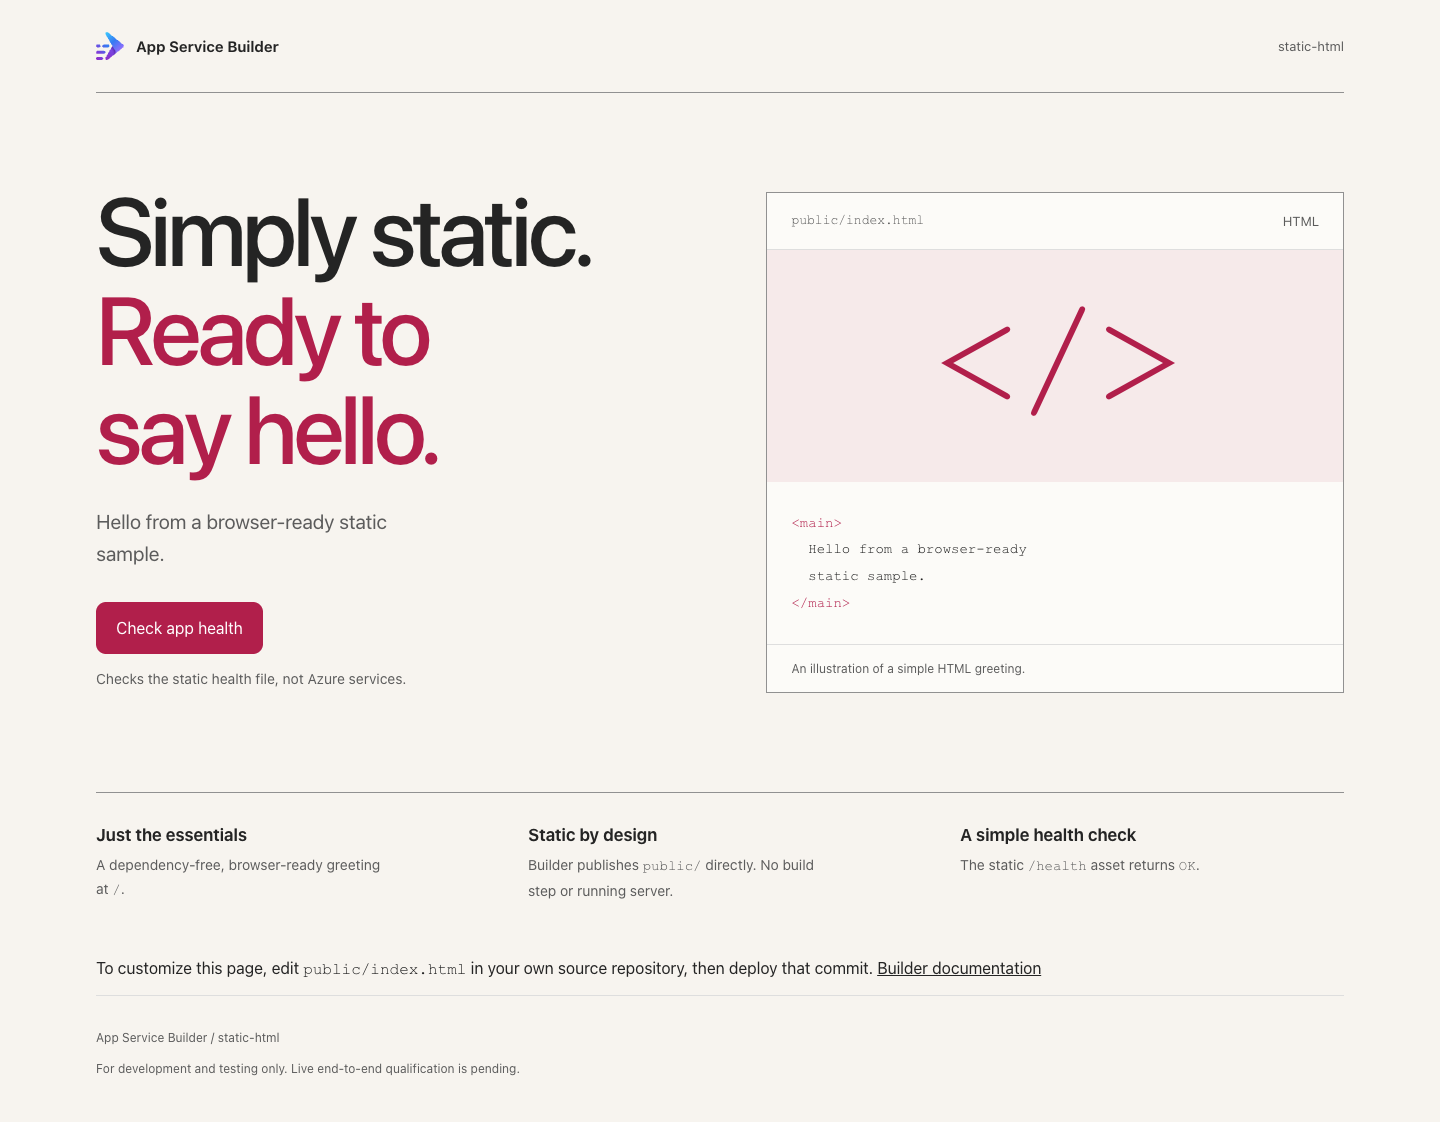
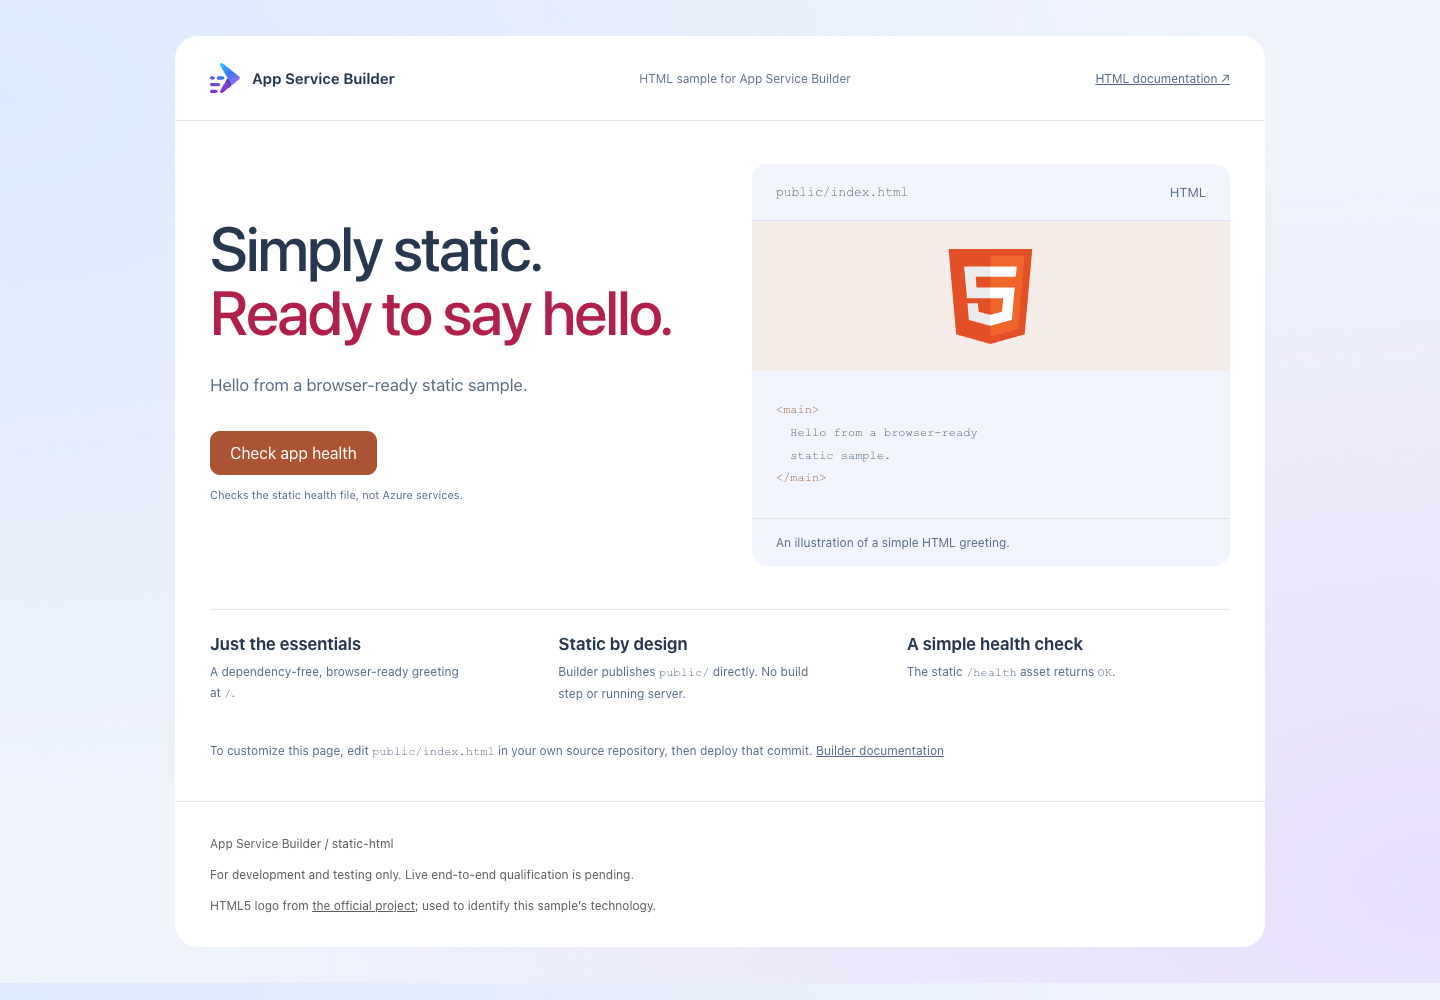
Refresh the language-specific Builder sample UI

diff --git a/public/index.html b/public/index.html
@@ -189,15 +189,16 @@
           to { clip-path: inset(0); }
         }
       }
-    </style>
+
+.shell{max-width:1090px;width:calc(100% - 60px)}body{background:radial-gradient(ellipse at 0 10%,#dceaff,transparent 60%),radial-gradient(ellipse at 100% 90%,#e8e0fa,transparent 60%),#eff3fc;color:#26374f}.masthead{margin-top:36px;background:white;padding:27px 35px;border-radius:23px 23px 0 0;border-bottom:1px solid #e2e8f1}main.shell{padding:0 35px 25px;background:white}.hero{padding-block:43px;gap:40px}.hero h1{font-size:62px;letter-spacing:-.03em}.intro{color:#586c85;font-size:17px}.source{background:#f3f5fe;border:0;border-radius:15px;overflow:hidden}.source-heading,.source-caption{border-color:#dae2f2;color:#596c87}.html-mark{min-height:150px;background:#f5ebe7;color:#b75830}.language-logo{width:95px;height:auto}.code{font-size:12px;color:#49647f}.syntax{color:#936445}.action{background:#aa5434;color:white;border:0;border-radius:10px;min-height:44px;padding:13px 20px}.action:hover{background:#864129}.details{gap:25px;padding:24px 0;border-color:#e2e8f1}.detail p{color:#586c85;font-size:12px}footer.shell{padding:20px 35px;background:#fff;border-radius:0 0 23px 23px;margin-bottom:36px;border-color:#e2e8f1}.brand-logo{width:30px;height:30px}.edition{color:#61718b;font-size:12px}main>p{color:#586c85;font-size:12px;line-height:1.8}#health-status{color:#586c85;font-size:11px}.language-docs{color:#536582;font-size:12px}
+html[data-theme=dark] body{background:#171e30;color:#ecf1ff}html[data-theme=dark] .masthead,html[data-theme=dark] main.shell,html[data-theme=dark] footer.shell{background:#242e43}html[data-theme=dark] .intro,html[data-theme=dark] .detail p,html[data-theme=dark] main>p,html[data-theme=dark] #health-status,html[data-theme=dark] .edition,html[data-theme=dark] .language-docs{color:#bdcbe2}
+@media(max-width:700px){.shell{width:calc(100% - 30px)}.masthead{margin-top:22px;padding:23px 21px;flex-wrap:wrap;gap:15px}main.shell{padding:0 21px 24px}.hero{padding-block:31px;gap:27px}.hero h1{font-size:48px}.html-mark{min-height:120px}.details{gap:22px}footer.shell{padding:19px 21px}.brand{max-width:none}}
+</style>
   </head>
   <body>
     <!--
-      THESIS: An HTML greeting as a typographic specimen, not a generic card grid.
-      OWN-WORLD: Warm paper, charcoal type, rose ink, and a flat source-code sheet.
-      STORY: Read the original greeting, understand the static sample, open /health.
-      FIRST VIEWPORT: Oversized headline left; HTML specimen right; one health link.
-      FORM: Brief-directed editorial composition; existing routes and content retained.
+      THESIS: A language-specific hello-world specimen in the approved soft modern Builder family.
+      FORM: Existing sample functionality and honest health/customization behavior retained.
     -->
     <header class="masthead shell">
       <div class="brand"><svg class="brand-logo" aria-hidden="true" focusable="false" width="18" height="18" viewBox="0 0 18 18" fill="none" xmlns="http://www.w3.org/2000/svg">
@@ -250,7 +251,7 @@
 </clipPath>
 </defs>
 </svg>App Service Builder</div>
-      <span class="edition">static-html</span>
+      <span class="edition">HTML sample for App Service Builder</span><a class="language-docs" href="https://html.spec.whatwg.org/multipage/">HTML documentation ↗</a>
     </header>
     <main class="shell">
       <section class="hero" aria-labelledby="greeting">
@@ -262,7 +263,14 @@
         </div>
         <figure class="source">
           <div class="source-heading"><code>public/index.html</code><span>HTML</span></div>
-          <div class="html-mark" aria-hidden="true">&lt;/&gt;</div>
+          <div class="html-mark"><svg class="language-logo" role="img" aria-label="HTML5" xmlns="http://www.w3.org/2000/svg" viewBox="0 0 512 512">
+  <title>HTML5 Logo Badge</title>
+  <path fill="#E34F26" d="M71,460 L30,0 481,0 440,460 255,512"/>
+  <path fill="#EF652A" d="M256,472 L405,431 440,37 256,37"/>
+  <path fill="#EBEBEB" d="M256,208 L181,208 176,150 256,150 256,94 255,94 114,94 115,109 129,265 256,265zM256,355 L255,355 192,338 188,293 158,293 132,293 139,382 255,414 256,414z"/>
+  <path fill="#FFF" d="M255,208 L255,265 325,265 318,338 255,355 255,414 371,382 372,372 385,223 387,208 371,208zM255,94 L255,129 255,150 255,150 392,150 392,150 392,150 393,138 396,109 397,94z"/>
+</svg>
+</div>
           <pre class="code"><code><span class="syntax">&lt;main&gt;</span>
   Hello from a browser-ready
   static sample.
@@ -289,7 +297,7 @@
     <footer class="shell">
       <p>App Service Builder / static-html</p>
       <p>For development and testing only. Live end-to-end qualification is pending.</p>
-    </footer>
+    <p>HTML5 logo from <a href="https://www.w3.org/html/logo/">the official project</a>; used to identify this sample’s technology.</p></footer>
     <script>
       const button = document.querySelector('[data-health-check]');
       const status = document.querySelector('#health-status');

diff --git a/README.md b/README.md
@@ -6,7 +6,7 @@ running server in the deployment. `serve.mjs` is only a local development helper
 
 ## Preview
 
-![Static HTML root page with a rose-accented greeting, HTML specimen, and in-page health check](docs/images/sample.png)
+![HTML sample with official technology and Builder identity, inline health and source guidance](docs/images/sample.png)
 
 Real local rendering in Microsoft Edge, not evidence of an Azure deployment.
 
@@ -163,3 +163,7 @@ The local helper, tests, and README are outside the deployed `public/` directory
 * [MIT license](LICENSE.md)
 
 The product mark uses the supplied App Service Builder asset in `assets/AppServiceBuilder.svg`. Its SVG is inlined in the root page to preserve the existing routes and security policy. Keep the inline copy and asset in sync when updating the logo.
+
+## Technology identity
+
+The root UI follows the Builder sample family while retaining this sample’s existing learning objective and real health behavior. It includes the official HTML5 logo, a clearly labeled language documentation link, and separate Builder documentation. Original logo source is retained under `assets/`.
